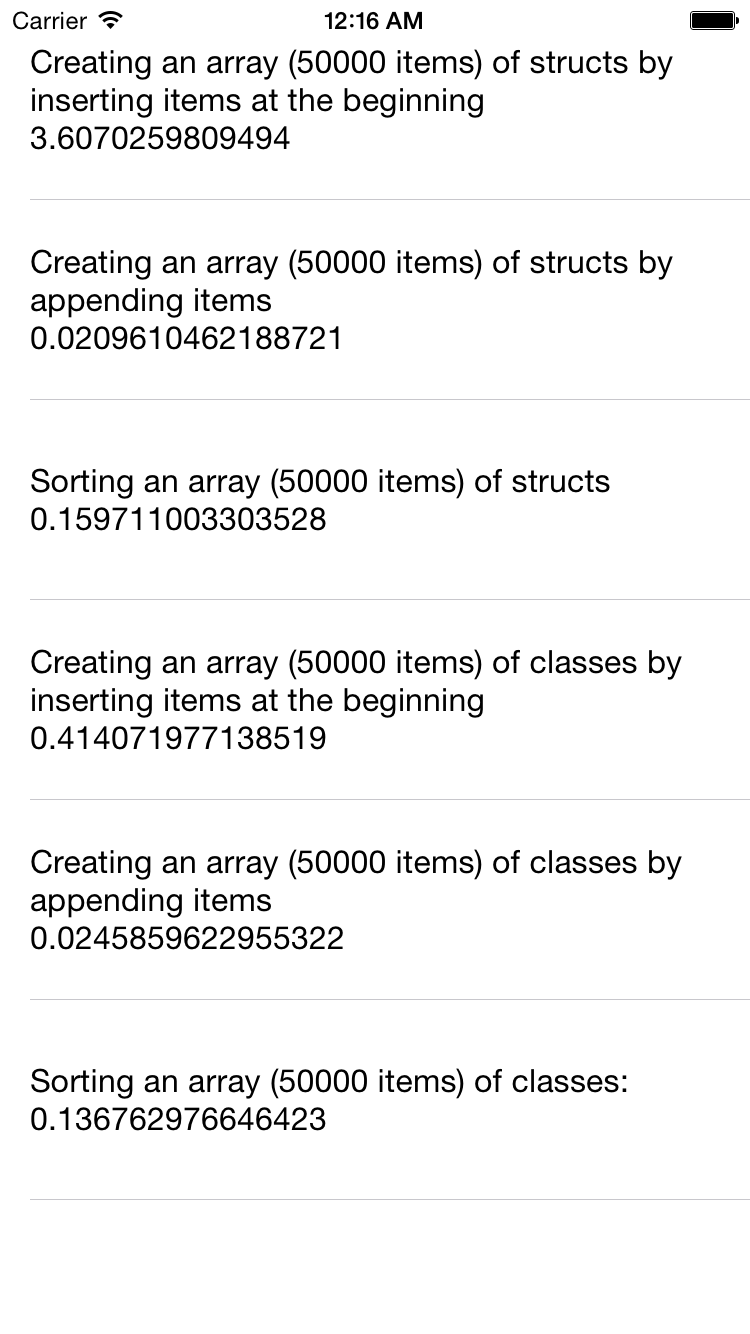
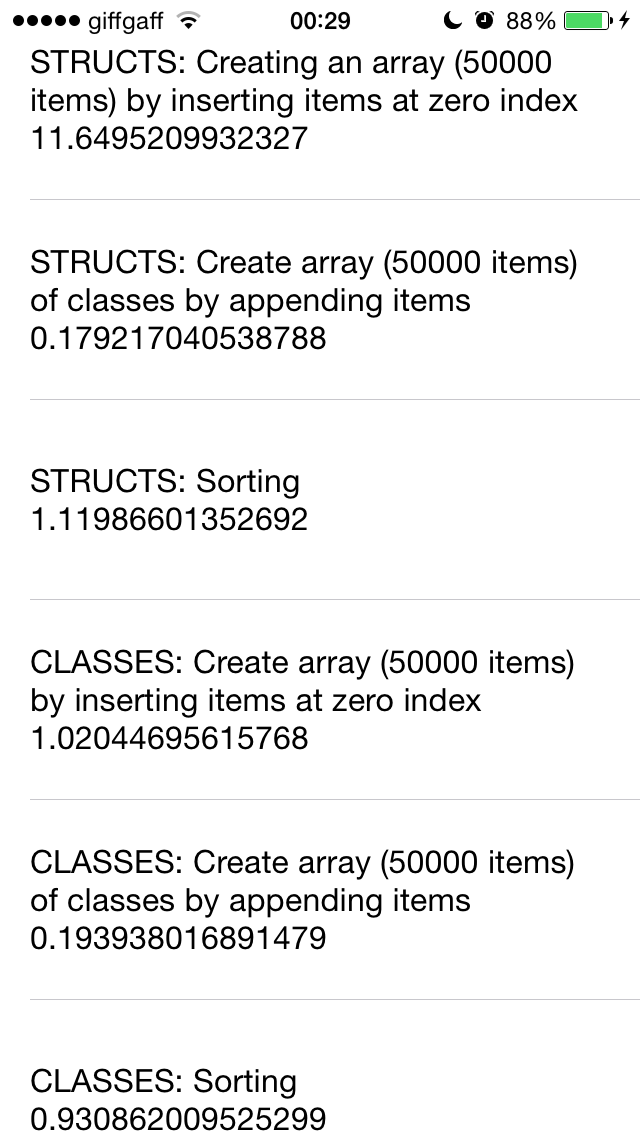
washable protocol added, result.png updated

diff --git a/struct-vs-class/ViewController.swift b/struct-vs-class/ViewController.swift
@@ -24,24 +24,24 @@ class ViewController: UIViewController {
     let size = 50000
     
     let resultStructInsert = Test.measureCreatingStructs(size: size, method: Test.ArrayOperation.InsertAtBeginning)
-    results.append(TestResult(name: "Creating an array (\(size) items) of structs by inserting items at the beginning", result: resultStructInsert.time))
+    results.append(TestResult(name: "STRUCTS: Creating an array (\(size) items) by inserting items at zero index", result: resultStructInsert.time))
     
     let resultStructAppend = Test.measureCreatingStructs(size: size, method: Test.ArrayOperation.Append)
-    results.append(TestResult(name: "Creating an array (\(size) items) of structs by appending items", result: resultStructAppend.time))
+    results.append(TestResult(name: "STRUCTS: Create array (\(size) items) of classes by appending items", result: resultStructAppend.time))
 
     let resultStructSort = Test.measureSort(resultStructAppend.array)
-    results.append(TestResult(name: "Sorting an array (\(size) items) of structs", result: resultStructSort.time))
+    results.append(TestResult(name: "STRUCTS: Sorting", result: resultStructSort.time))
 
 
     
     let resultClassInsert = Test.measureCreatingClasses(size: size, method: Test.ArrayOperation.InsertAtBeginning)
-    results.append(TestResult(name: "Creating an array (\(size) items) of classes by inserting items at the beginning", result: resultClassInsert.time))
+    results.append(TestResult(name: "CLASSES: Create array (\(size) items) by inserting items at zero index", result: resultClassInsert.time))
     
     let resultClassAppend = Test.measureCreatingClasses(size: size, method: Test.ArrayOperation.Append)
-    results.append(TestResult(name: "Creating an array (\(size) items) of classes by appending items", result: resultClassAppend.time))
+    results.append(TestResult(name: "CLASSES: Create array (\(size) items) of classes by appending items", result: resultClassAppend.time))
     
     let resultClassSort = Test.measureSort(resultClassAppend.array)
-    results.append(TestResult(name: "Sorting an array (\(size) items) of classes:", result: resultClassSort.time))
+    results.append(TestResult(name: "CLASSES: Sorting", result: resultClassSort.time))
     
   }
 }

diff --git a/struct-vs-class/NumberClass.swift b/struct-vs-class/NumberClass.swift
@@ -8,12 +8,15 @@
 
 import Foundation
 
-final class NumberClass: Comparable {
+final class NumberClass: Comparable, Hashable {
   
   var index: Int?
   var number: Int?
   var text: String?
   
+  var hashValue: Int {
+    return index!
+  }
 }
 
 func ==(lhs: NumberClass, rhs: NumberClass) -> Bool {

diff --git a/struct-vs-class/NumberStruct.swift b/struct-vs-class/NumberStruct.swift
@@ -9,11 +9,15 @@
 import Foundation
 
 
-struct NumberStruct: Comparable {
+struct NumberStruct: Comparable, Hashable {
   
   var index: Int?
   var number: Int?
   var text: String?
+  
+  var hashValue: Int {
+    return index!
+  }
   
 }
 
